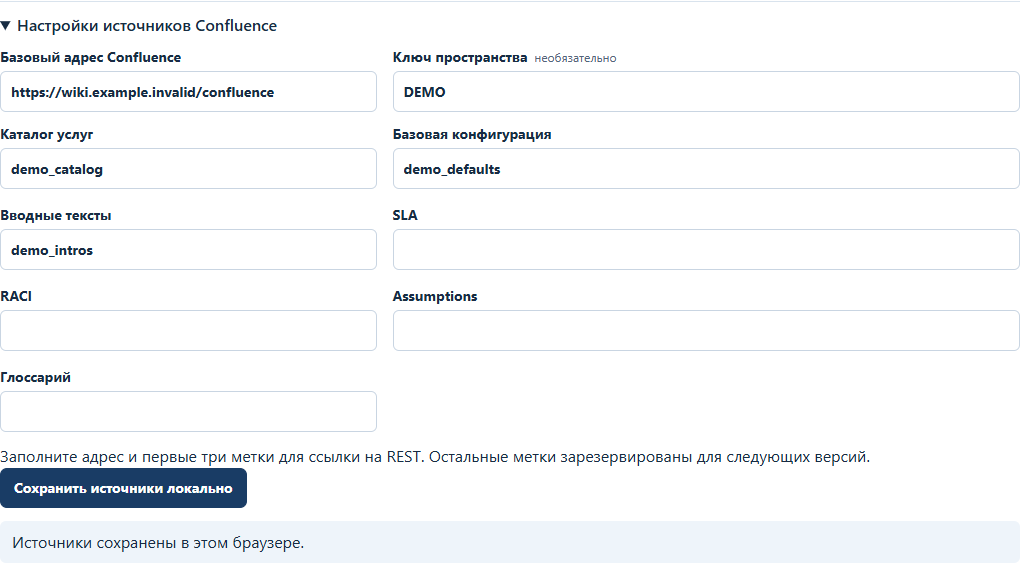
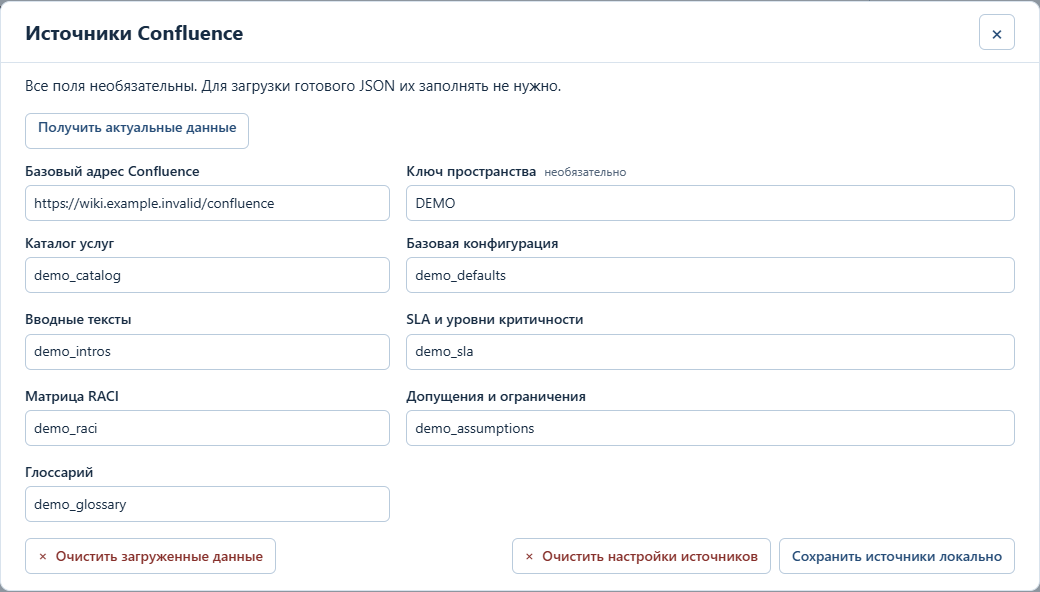
Prepare SSB 1.3.0 with refreshed user guide and verified upgrade tests

diff --git a/docs/USER_GUIDE.md b/docs/USER_GUIDE.md
@@ -1,112 +1,136 @@
 # Руководство пользователя Support Services Builder
 
-**Версия 1.2.2 · 14 ноября 2026 г.**
+**Версия 1.3.0 · 18 ноября 2026 г.**
 
 ## 1. Для чего нужен SSB
 
-Support Services Builder помогает собрать предложение по техническому сопровождению. Вы выбираете вариант поддержки, настраиваете состав услуг и выгружаете предложение в Excel или Word. Каталог и настройки обрабатываются в вашем браузере.
+Support Services Builder помогает подготовить предложение по техническому сопровождению. Загрузите каталог из Confluence, выберите вариант поддержки, настройте услуги и скачайте Excel или Word. Данные обрабатываются локально в браузере. SSB не изменяет страницы Confluence.
 
-## 2. Установка
+В приложении хранится одно текущее предложение. Его черновик сохраняется автоматически. Для повторного использования своей конфигурации есть **Мой шаблон**. Цвета Word и Excel настраиваются отдельно в **Палитре документа**.
 
-Откройте HTTPS-ссылку на приложение, которую предоставил владелец SSB. Если в приложении видна кнопка **Установить приложение**, нажмите её и подтвердите установку. Установленный SSB открывается отдельным окном. На Windows его можно найти по названию **Support Services Builder** через поиск в меню «Пуск», если браузер зарегистрировал приложение в системе.
+## 2. Установка и запуск
 
-![Кнопка «Установить приложение» в SSB, демонстрационный экран](assets/guide-install.png)
+Откройте [ssb.melgaf.com](https://ssb.melgaf.com/) в обычном профиле Chrome или Edge. Можно работать во вкладке или установить SSB отдельным приложением.
 
-**В Google Chrome**
+Если появилась кнопка **Установить приложение**, нажмите её и подтвердите установку. Также можно воспользоваться значком установки рядом с адресом или командой установки в меню браузера. Название и расположение команды зависят от версии браузера: [справка Chrome](https://support.google.com/chrome/answer/9658361?hl=ru), [справка Edge](https://support.microsoft.com/en-us/edge/install-manage-or-uninstall-apps-in-microsoft-edge).
 
-1. Откройте страницу SSB в обычном профиле Chrome.
-2. Нажмите значок установки справа в адресной строке. Также можно открыть меню **⋮ → Трансляция, сохранение и отправка → Установить страницу как приложение**.
-3. Подтвердите установку и откройте SSB из списка приложений. [Установка веб-приложений в Chrome](https://support.google.com/chrome/answer/9658361?hl=ru)
+![Главный экран SSB 1.3.0 в браузере до загрузки каталога](assets/guide-install.png)
 
-**В Microsoft Edge**
+Используйте один и тот же браузер и профиль. Установки в разных браузерах и профилях имеют отдельные данные и могут создавать похожие ярлыки. После установки откройте приложение и закрепите его на панели задач или в меню «Пуск», если браузер предлагает эти действия.
 
-1. Откройте страницу SSB в обычном профиле Edge.
-2. Нажмите значок установки в адресной строке или откройте **… → Другие инструменты → Приложения → Установить этот сайт как приложение**.
-3. Подтвердите установку. В параметрах после установки можно выбрать, где закрепить приложение. [Установка веб-приложений в Edge](https://support.microsoft.com/en-us/edge/install-manage-or-uninstall-apps-in-microsoft-edge)
+После первого открытия в сети SSB можно использовать без сети: импортировать сохранённый JSON и формировать документы. Для новой выгрузки из Confluence и обновления приложения нужна сеть.
 
-После первого открытия в сети проверьте, что SSB снова запускается без сети. Для резервной работы распакуйте автономный ZIP и откройте `index.html` из распакованной папки. Для обеих сборок достаточно браузера.
+Для резервной автономной работы распакуйте ZIP целиком и откройте `index.html` в Chrome или Edge. Дополнительные программы и локальный сервер не нужны. Хранилище автономной версии зависит от профиля и пути файла: перенос папки или открытие в другом браузере не переносит черновик и шаблон.
 
-## 3. Первый запуск
+## 3. Первый запуск и загрузка данных
 
-1. Нажмите **Загрузить JSON** и выберите готовый файл, скачанный из Confluence. Для пробного запуска можно выбрать `examples/demo-confluence.json` из автономного ZIP.
-2. Сверьте количество услуг в строке состояния под заголовком **Настройки предложения**. Дополнительные доступные разделы показаны в **Составе документа**. Кнопка **Источники Confluence** открывает настройки и сообщения импорта.
+1. Войдите в Confluence обычным способом и скачайте готовый JSON с каталогом и нужными разделами.
+2. В SSB нажмите **Загрузить JSON**. Если выгрузка состоит из нескольких файлов, выберите их вместе или добавьте по очереди.
+3. Под заголовком **Настройки предложения** сверьте количество загруженных услуг. В **Составе документа** проверьте доступные разделы.
+4. Настройте предложение и скачайте документы. Для знакомства с интерфейсом можно использовать `examples/demo-confluence.json` из автономного ZIP: это учебный каталог, без рабочих данных.
 
-Настройки источников для готового файла необязательны. Чтобы добавить ссылку **Получить актуальные данные**, откройте **Источники Confluence**, укажите базовый адрес и метки нужных страниц, затем сохраните настройки. Все поля видны сразу. Ключ пространства можно указать, когда все нужные страницы находятся в одном пространстве. Окно закрывается кнопкой × и клавишей Escape. Введённые значения сохраняются при закрытии окна. Для хранения между запусками нажмите **Сохранить источники локально**. Браузер хранит настройки и черновик в текущем профиле и по адресу приложения.
+Предварительно заполнять настройки источников не нужно. Источники определяются по содержимому готового файла. Отсутствующий или пустой необязательный раздел недоступен для включения; это не ошибка. Матрица RACI пока не поддерживается. Если заполненные данные некорректны или подходят несколько страниц, откройте **Источники Confluence** и прочитайте сообщения импорта.
 
-## 4. Обновление каталога
+**Источники Confluence** также позволяет необязательно указать адрес Confluence, ключ пространства и метки страниц. Нажмите **Сохранить источники локально**, чтобы сохранить поля между запусками. При заполненных настройках ссылка **Получить актуальные данные** открывает ответ Confluence в новой вкладке; там требуется ваша обычная авторизация. Все поля можно оставить пустыми. Окно закрывается кнопкой × или Escape; закрытие само по себе не сохраняет изменённые поля между запусками.
 
-1. Войдите в рабочий Confluence и скачайте актуальную выгрузку. Если в SSB настроена ссылка **Получить актуальные данные**, можно открыть через неё ответ REST и сохранить его как `.json`.
-2. Если в ответе есть `_links.next`, сохраните следующие страницы отдельными файлами, пока ссылка на продолжение не исчезнет.
-3. Нажмите **Загрузить JSON**. Выберите все файлы или добавляйте их по одному. Если SSB сообщает о недостающих страницах, загрузите продолжение.
-4. Сверьте количество услуг в строке состояния и доступность разделов в **Составе документа**. При предупреждении или ошибке откройте **Источники Confluence**. Если источник неоднозначен, сверьте ID страниц в сообщении и оставьте в выгрузке нужную страницу или уточните выбор меткой.
+![Окно источников Confluence, только учебные настройки](assets/guide-sources.png)
 
-Пока выгрузка неполная, рабочий каталог остаётся доступен. Если вы начали получать новую выгрузку, кнопка **Начать новую выгрузку** в окне **Источники Confluence** очищает только ожидающие страницы. При неудачном повторном импорте строка состояния показывает проблему последней загрузки и количество сохранённых ранее услуг. Подробности доступны в окне источников.
+## 4. Обновление и очистка данных Confluence
 
-**Очистить загруженные данные** слева внизу окна **Источники Confluence** удаляет каталог, дополнительные источники и текущую конфигурацию из приложения и его черновика. После подтверждения дождитесь сообщения **Данные Confluence очищены**. Окно источников остаётся открытым. Личный шаблон, активная и собственная палитра и настройки источников сохраняются. Для продолжения закройте окно источников и загрузите JSON заново. После загрузки можно явно выбрать **Мой шаблон**.
+Для обновления каталога скачайте свежий JSON и снова нажмите **Загрузить JSON**. Если ответ Confluence содержит `_links.next`, сохраните и загрузите продолжение до последней страницы. Пока выгрузка неполная, прежний каталог остаётся доступен. **Начать новую выгрузку** в окне источников очищает только ожидающие страницы после подтверждения.
 
-**Очистить настройки источников** в окне источников удаляет только сохранённые адрес, пространство и метки, а также очищает поля формы. Каталог и текущее предложение сохраняются. Обе очистки требуют подтверждения, отмена и Escape сохраняют данные. Кнопка **Сохранить источники локально** сохраняет поля без предварительного подтверждения.
+После импорта проверьте статус и количество услуг. Если возникла ошибка, ранее загруженные данные не следует считать обновлёнными. Подробности доступны через **Источники Confluence**. При неоднозначном источнике оставьте нужную страницу в файле или уточните сопоставление в настройках источников.
 
-## 5. Создание предложения
+Внизу окна источников находятся две независимые очистки:
 
-1. В блоке **Основа предложения** выберите **Стандарт Confluence** или сохранённый **Мой шаблон**. Чтобы заново применить активную основу, нажмите на её выбранный вариант ещё раз.
-2. Выберите **Standard — Стандартная поддержка 24×7**, **Extended — Расширенная поддержка 24×7** или **Managed Service — Полная поддержка 24×7**. В сравнении выбранный вариант помечен как **Предложение**.
-3. В таблице включайте услуги для каждого пакета. Для включённой услуги укажите параметр, если он нужен, например количество часов.
-4. Снимите отметку **Включить в документ**, чтобы исключить услугу из обоих документов целиком.
-5. Откройте **Описание и условия**, чтобы сверить карточку и основную услугу. Модификация имеет собственный ID и настраивается отдельно.
+- **Очистить загруженные данные** слева удаляет каталог, дополнительные данные и связанную конфигурацию текущего предложения, в том числе из черновика. Личный шаблон, активная и собственная палитра и настройки источников сохраняются. После подтверждения дождитесь **Данные Confluence очищены**. Окно останется открытым. Закройте его и загрузите JSON заново; затем можно явно выбрать **Мой шаблон**.
+- **Очистить настройки источников** справа удаляет только сохранённые адрес, пространство и метки и освобождает поля. Каталог и текущее предложение остаются. Дождитесь **Настройки источников очищены**. Готовый JSON по-прежнему можно загрузить без заполнения полей.
 
-Таблица занимает до 78% высоты окна и подстраивается при изменении его размера. Каталог прокручивается внутри таблицы, заголовки остаются видимыми. На узком экране доступна горизонтальная прокрутка.
+Обе операции требуют подтверждения. **Отмена**, × и Escape ничего не удаляют. Если нечего очищать, кнопка неактивна. После успешной очистки каталога он не вернётся при перезапуске; для восстановления нужен исходный JSON. Сохраните этот файл на компьютере. При ошибке хранения SSB не сообщает об успешной очистке.
 
-## 6. Состав документа
+## 5. Настройка предложения
 
-В блоке **Состав документа** отметьте нужные разделы. Для Word и Excel используется один выбор. При применении **Стандарта Confluence** включаются все реализованные и доступные разделы, матрица SLA показывает выбранный пакет. **Мой шаблон** восстанавливает свой сохранённый состав. Уже открытый черновик сохраняет индивидуальный выбор разделов.
+1. В блоке **Основа предложения** выберите **Стандарт Confluence** или доступный **Мой шаблон**. При замене индивидуальных правок появится подтверждение. Для повторного применения активной основы нажмите на неё ещё раз.
+2. Выберите **Standard — Стандартная поддержка 24×7**, **Extended — Расширенная поддержка 24×7** или **Managed Service — Полная поддержка 24×7**. В таблице выбранная колонка выделена и помечена **Предложение**.
+3. В колонках пакетов включайте услуги и вводите параметры, например «12 часов». Снятая отметка исключает услугу только из соответствующего пакета; для включённой услуги можно оставить параметр пустым, если уточнение не требуется.
+4. В колонке **Включить в документ** снимите отметку у услуги, которую нужно полностью исключить из обоих документов. Состав трёх пакетов при этом сохраняется.
+5. Нажмите **Описание и условия**, чтобы прочитать полный текст услуги. Модификации имеют собственные ID и настраиваются отдельно.
 
-Вводный текст берётся из Confluence для выбранного варианта поддержки. Отсутствующий или пустой раздел недоступен, рядом указана причина. Если заполненная таблица не прошла проверку, откройте список сообщений импорта.
+![Сравнение вариантов и личный шаблон, учебный каталог](assets/guide-proposal.png)
 
-Для **Матрицы SLA** выберите состав. **Только выбранный уровень поддержки** показывает таблицу пакета предложения. Для **Всех уровней с выделением выбранного** доступны **Отдельные таблицы по уровням поддержки** и **Одна сравнительная таблица**. В таблице отдельного пакета пять временных показателей идут строками, а уровни критичности 10, 20, 30 и 80 — столбцами. В сравнительной таблице каждый пакет занимает свой столбец. В зависимости от представления выделяется таблица пакета предложения или его столбец. **Уровни критичности** можно включить отдельно. В Word они выводятся в таблице. **Матрица RACI** пока недоступна.
+Каталог отсортирован по ID: например, TS-2 идёт перед TS-10, модификации — сразу после основного номера. Рабочая область таблицы занимает до 78% высоты окна и меняется вместе с окном. Заголовки остаются видимыми при внутренней прокрутке. На узком экране прокручивайте таблицу горизонтально.
 
-## 7. Скачивание документов
+## 6. Состав документа и SLA
 
-Кнопка **Палитра документа** в разделе **Сравнение вариантов** открывает предпросмотр оформления Word и Excel. В режиме **Базовая** используются корпоративные синий и зелёный с белым текстом. В режиме **Своя** выберите цвета образцами или введите HEX-коды. Для каждого заголовка можно оставить белый текст, включить **Авто** или указать свой цвет. Если контраст низкий, SSB покажет предупреждение рядом с предпросмотром.
+В **Составе документа** отметьте нужные разделы: **Вводный текст**, **Матрица SLA**, **Уровни критичности**, **Допущения и ограничения**, **Глоссарий**. Для Word и Excel используется один выбор. Недоступный источник нельзя включить; причина указана рядом.
 
-Активный вариант и последние корректные настройки собственной палитры сохраняются автоматически в этом браузере и в черновике, без отдельной кнопки. Базовая палитра не редактируется. Переключение на **Базовая** сохраняет собственные цвета; при возврате на **Своя** они восстанавливаются, включая режимы и HEX цветов текста. Закрытие окна, повторный импорт, выбор основы и сохранение личного шаблона не сбрасывают палитру. Незавершённый HEX не заменяет последнее корректное значение. При ошибке сохранения SSB показывает предупреждение; до её устранения не рассчитывайте на сохранение между запусками.
+**Стандарт Confluence** включает все доступные реализованные разделы и выбирает SLA только выбранного пакета. **Мой шаблон** восстанавливает собственный сохранённый состав. Уже открытый черновик сохраняет ваш индивидуальный выбор.
 
-Word и Excel используют название **Предложение по техническому сопровождению**. В приложении хранится одна текущая конфигурация предложения.
+Вводный текст берётся из Confluence для выбранного пакета и размещается перед сравнением вариантов. Редактировать его локально в SSB нельзя.
 
-- **Скачать Excel** создаёт книгу с листами «Описание услуг» и «Предложение». На втором листе ID и название ведут к описанию на первом листе. Вводный текст размещается на листе «Предложение». Для других включённых разделов создаются отдельные листы.
-- **Скачать Word** создаёт документ со сравнением вариантов и описаниями и условиями по включённым услугам. Включённый вводный текст размещается перед сравнением. Остальные отмеченные разделы следуют после описаний.
+Для матрицы SLA доступны:
 
-Найдите файлы в загрузках браузера. Перед отправкой клиенту проверьте выбранный пакет, состав, параметры и вводный текст.
+- **Только выбранный уровень поддержки** — одна таблица выбранного пакета. Пять временных показателей расположены строками, уровни критичности 10, 20, 30 и 80 — столбцами.
+- **Все уровни с выделением выбранного** — дополнительно выберите **Отдельные таблицы по уровням поддержки** или **Одна сравнительная таблица**. В первом случае следуют Standard, Extended и Managed Service, выбранная таблица выделена; в Excel они находятся на одном листе. Во втором случае пакеты занимают колонки одной таблицы, выбранная колонка выделена и помечена **Предложение**.
 
-## 8. Мой шаблон и черновик
+Значения и формулировки берутся из Confluence. **Уровни критичности** можно включить отдельно; в Word это таблица. **Матрица RACI** остаётся недоступной.
 
-- **Стандарт Confluence** восстанавливает состав и параметры услуг из загруженного стандарта, выбирает Standard, включает все доступные реализованные разделы и режим SLA **Только выбранный уровень поддержки**.
-- **Мой шаблон** восстанавливает сохранённые пакет, услуги, параметры, признаки включения в документ, состав разделов и представление SLA.
-- **Сохранить как мой шаблон** сохраняет текущую конфигурацию в браузере. Первое сохранение выполняется сразу. Обновление существующего шаблона требует подтверждения замены.
+## 7. Палитра и скачивание документов
 
-Индивидуальные изменения текущего предложения автоматически сохраняются в черновике. Чтобы заменить их настройками основы, подтвердите применение в диалоге. Сохранённый шаблон изменяется только при явном сохранении. Палитра документа остаётся независимой. После обновления каталога настройки сопоставляются по ID услуг, новые услуги получают значения актуального стандарта. Отсутствующие дополнительные разделы недоступны для экспорта.
+Откройте **Палитра документа** в разделе **Сравнение вариантов**.
 
-Автосохранение работает без сообщений после каждой правки. При следующем открытии приложение вернёт фактическое состояние текущего предложения. Ошибки сохранения остаются видимыми до устранения. Старые настройки менеджера доступны как личный шаблон с начальными значениями пакета и состава документа. Старые черновики сохраняют свои настройки, прежние клиент и название игнорируются при экспорте.
+- **Базовая** использует фиксированные синий и зелёный с белым текстом; эти настройки не редактируются.
+- **Своя** позволяет выбрать два основных цвета образцами или ввести HEX, например `#234C5E`. Для каждого заголовка есть **По умолчанию** с белым текстом, **Авто** с автоматическим выбором контрастного текста и **Свой** с отдельным цветом текста.
 
-Шаблон и черновик хранятся в текущем профиле браузера и по адресу приложения. Очистка данных сайта удаляет их. Перед переносом сохраните нужные документы.
+Предпросмотр меняется сразу. Предупреждение о низком контрасте помогает проверить читаемость. Для подбора цветов можно открыть Get Color или Adobe Color по ссылкам внизу окна.
+
+![Палитра документов с учебными цветами и предпросмотром](assets/guide-palette.png)
+
+Корректные изменения сохраняются автоматически, без кнопки сохранения. Переключение на базовую палитру сохраняет собственные цвета и настройки текста; при возврате на **Своя** они восстанавливаются. Закрытие окна, импорт каталога, выбор основы и сохранение шаблона не сбрасывают палитру. Неполный или неверный HEX не заменяет последнее корректное значение. При ошибке хранения не рассчитывайте на сохранение после закрытия приложения.
+
+Документы используют название **Предложение по техническому сопровождению**.
+
+- **Скачать Excel** создаёт листы **Описание услуг** и **Предложение**. На первом — полный каталог с отдельными полями описания и условий. На втором — сравнительная таблица трёх пакетов без колонки описания. ID и название ведут к нужной строке первого листа. Дополнительные включённые разделы получают отдельные листы.
+- **Скачать Word** создаёт сравнительную таблицу трёх пакетов и текстовые описания включённых в документ услуг. Названия услуг идут отдельными заголовками без ID, под ними — описания и заполненные условия. Дополнительные разделы следуют после описаний.
+
+Найдите файлы в загрузках браузера. Перед передачей проверьте выбранный пакет, включённые услуги, параметры, разделы и читаемость цветов. Содержимое исходного JSON от выбора палитры не меняется.
+
+## 8. Мой шаблон, черновик и сохранность настроек
+
+**Стандарт Confluence** применяет последнюю загруженную базовую конфигурацию: выбирает Standard, состав и параметры услуг из стандарта, все доступные разделы и SLA выбранного уровня.
+
+**Сохранить как мой шаблон** сохраняет текущий пакет, настройки всех трёх пакетов, индивидуальные параметры, включение услуг в документ, состав разделов и представление SLA. Первое сохранение выполняется сразу, замена существующего шаблона требует подтверждения. Шаблон не содержит палитру и не изменяет Confluence.
+
+**Мой шаблон** применяет сохранённую конфигурацию к загруженному каталогу. Новые услуги получают значения актуального стандарта, настройки существующих сопоставляются по ID. При наличии индивидуальных изменений SSB предлагает подтвердить их замену; отмена сохраняет текущую работу. Шаблон изменяется только при явном сохранении, а текущий черновик — автоматически после правок.
+
+При повторном открытии в том же браузере и профиле SSB восстанавливает последнее сохранённое предложение и каталог. Сообщения об успешном автосохранении не появляются после каждой правки. Ошибки хранения остаются видимыми. Не закрывайте приложение в расчёте на сохранение, пока ошибка не устранена; скачайте нужные документы.
+
+После обновления с 1.2.2 прежние локальные настройки менеджера доступны через **Мой шаблон**. Старый черновик сохраняет выбранный пакет, услуги, параметры и состав документа. Прежние клиент и название больше не выводятся, используется стандартное название документа. Кнопок **Новое предложение**, **Скачать настройки** и **Загрузить настройки** в 1.3.0 нет.
+
+Шаблон, палитра и черновик привязаны к профилю браузера и адресу приложения. Они не синхронизируются между компьютерами. Очистка данных сайта в браузере удаляет эти данные. Перед сменой профиля или автономной папки сохраните JSON и необходимые документы; встроенного переноса шаблона в файл в 1.3.0 нет.
 
 ## 9. Обновления приложения
 
-Версия показана в шапке. В установленном приложении новая версия проверяется в фоне. Нажмите **Проверить обновления**, чтобы проверить вручную. Когда появится **Установить обновление**, завершите текущую операцию и подтвердите перезапуск. SSB сначала сохраняет предложение. После открытия новой версии проверьте надпись о восстановлении черновика и выбранный пакет.
+Версия показана в шапке. В рабочем PWA обновления проверяются в фоне и кнопкой **Проверить обновления**. Когда появится **Установить обновление**, завершите текущую операцию и подтвердите перезапуск. SSB сначала сохраняет предложение; при проблеме хранения обновление откладывается.
 
-Откройте **Что нового**, чтобы прочитать изменения текущей версии. Если браузер не подтвердил сохранение, приложение предложит отложить перезапуск.
+После обновления проверьте номер версии, восстановленный пакет, параметры, личный шаблон и палитру. Для перехода с 1.2.2 на 1.3.0 штатная переустановка не требуется: используйте прежний адрес и профиль. **Что нового** показывает изменения текущего выпуска. Руководство доступно через **Помощь**, в том числе офлайн после загрузки приложения.
 
-При переходе с 1.1.0 сохранённые настройки и черновик открываются в том же профиле браузера. Вводный текст формируется из Confluence для выбранного варианта поддержки. Текст, введённый в локальном редакторе 1.1.0, можно сохранить в документе Word или Excel перед обновлением.
+В локальной тестовой версии видны бейдж **ТЕСТОВАЯ** и суффикс `-dev`. Её данные отдельные. **Проверить обновления** показывает помеченную имитацию PWA; **Загрузить новую сборку**, когда доступна, получает последнюю локальную сборку. Эти действия не устанавливают рабочие обновления в тестовую версию.
 
 ## 10. Частые проблемы
 
-**JSON не загружается.** Проверьте расширение файла и его содержимое. Файл со страницей входа или HTML нужно пересохранить после входа в Confluence.
+**Вместо JSON скачалась страница входа.** Войдите в Confluence в обычном браузере и скачайте ответ заново. SSB не выполняет вход и не запрашивает пароль.
 
-**Каталог неполный.** Сохраните и загрузите остальные страницы из `_links.next`. Если ссылки уже нет, проверьте пространство, метки и права просмотра.
+**Каталог неполный.** Загрузите все страницы выгрузки из `_links.next`. Если продолжения нет, проверьте права просмотра и параметры выгрузки. Откройте сообщения в **Источники Confluence**.
 
-**Услуги не отображаются.** Откройте сообщения импорта и проверьте, что JSON содержит карточки с содержимым страниц и полями Page Properties. Сверьте число карточек с источником.
+**Дополнительный раздел недоступен.** Он отсутствует, пуст или содержит ошибку. Причина указана в составе документа; подробности ошибки — в окне источников. Исправьте источник и повторно загрузите JSON. RACI пока не поддерживается.
 
-**Документ не формируется.** Загрузите каталог и исправьте подсвеченные параметры. Проверьте папку загрузок и разрешение браузера на скачивание.
+**Документ не формируется.** Загрузите каталог, проверьте подсвеченные поля, разрешение на скачивание и папку загрузок. Данные после очистки каталога нужно импортировать повторно.
 
-**Шаблон или черновик не сохраняются.** Проверьте, что вы используете обычный профиль и браузер разрешает хранение данных сайта. Сохраните нужные документы. Если ошибка возникла после открытия второй вкладки, продолжайте в той вкладке, которая сохранила черновик первой.
+**Шаблон, черновик или палитра не сохраняются.** Используйте обычный профиль и разрешите хранение данных сайта. При конфликте двух вкладок продолжайте в той, которая сохранила черновик первой. Скачайте необходимые документы до закрытия приложения.
 
-**Обновление не устанавливается.** Проверьте сеть и статус сохранения черновика. Закончите импорт или экспорт, закройте лишние окна SSB и повторите проверку обновлений. При ошибке загрузки продолжайте в открытой версии.
+**После выбора базовой палитры пропали свои цвета.** Вернитесь на **Своя**. Базовая меняет только используемый вариант. Если приложение открыто в другом браузере, профиле или по другому адресу, прежние настройки там недоступны.
+
+**Ярлык открывает вкладку вместо отдельного окна.** Откройте рабочий адрес в том же браузере и профиле и выберите **Открыть в приложении**, если браузер предлагает эту команду. Проверьте, что ярлык относится к рабочему сайту, а не к старой локальной установке. Закрепите нужное окно. Не удаляйте данные сайта для исправления ярлыка.
+
+**Обновление не устанавливается.** Проверьте сеть и сообщения о сохранении. Закончите импорт или экспорт, закройте лишние окна SSB и повторите проверку. При ошибке загрузки продолжайте в открытой версии.

diff --git a/docs/SSB_1.3.0_RELEASE_REPORT.md b/docs/SSB_1.3.0_RELEASE_REPORT.md
@@ -1,0 +1,74 @@
+# Support Services Builder 1.3.0 — подготовка выпуска
+
+18 ноября 2026 г. Исходная рабочая версия — 1.2.2. Подготовлен функциональный выпуск 1.3.0; тестовая сборка — 1.3.0-dev.
+
+## Состав
+
+- Полный личный шаблон и выбор основы «Стандарт Confluence» / «Мой шаблон», подтверждение замены правок. Стандарт включает доступные разделы и SLA выбранного пакета.
+- Палитра Word и Excel с автоматическим сохранением, независимыми базовым вариантом и собственными настройками, миграцией прежних настроек и предпросмотром.
+- Компактный интерфейс, область таблицы до 78% высоты окна, короткие уведомления, настройки и диагностика в окне источников.
+- Независимая очистка каталога и настроек источников, подтверждения и сохранение личного шаблона и палитры.
+- Стандартное название документа; удалены клиент, произвольное название, «Новое предложение» и прежние действия с файлами настроек.
+- Полностью актуализированное существующее руководство и инструкции из архивов. Прежние исправления импорта 1.2.1–1.2.2 сохранены, но не объявлены новой функциональностью этого выпуска.
+
+Состав сверён с историей `main..dev`, журналом UNRELEASED и выполненными итерациями. Незавершённых изменений в состав выпуска не добавлено. Отдельный незакоммиченный аналитический отчёт не включён в поставку.
+
+## Проверки перед отправкой
+
+| Проверка | Результат |
+|---|---|
+| Исходная версия | Рабочий сайт по HTTPS показывал 1.2.2; все 11 файлов совпали с проверенным артефактом Pages 1.2.2; GitHub Release и main соответствовали `a9dd88a` |
+| Зависимости | Установка по неизменённому lock-файлу, pnpm 11.25.0; аудит не выявил известных уязвимостей |
+| Автоматические тесты | 39 тестов, включая все пакеты, все представления SLA, форматирование заголовков и содержимое Word/Excel, миграцию и ошибки хранения |
+| Сборки | Production 1.3.0 и dev 1.3.0-dev собраны; архивы сформированы штатным упаковщиком с проверкой состава и CRC |
+| Браузеры | Chrome 157 и Edge 157: источники, импорт без настроек, пустые/необязательные источники, повторный импорт, шаблоны, палитра, очистки, сообщения, таблица и экспорт |
+| Обновление PWA | На отдельном локальном HTTPS проверен переход именно с опубликованных файлов 1.2.2 на 1.3.0, сохранность черновика, параметров, выбранного пакета и локальных настроек |
+| Установка и повторный запуск | Отдельные тестовые установки Chrome и Edge сохранились после обновления и перезапуска браузеров; повторный запуск проверен в отдельном окне |
+| Идентичность | Манифест и исходный Service Worker не менялись; прежние `id`, `start_url`, `scope`, `display` и URL манифеста сохранены |
+| Изоляция dev | Нет рабочего Service Worker; настройки и черновики раздельны; имитация обновлений и элементы dev отсутствуют в production |
+| Безопасность | Проверена новая история Git с частным списком маркеров и шаблонами секретов; публичные исходники и сборки проверяются перед отправкой. JSON, профили, черновики, локальные настройки, ключ тестового HTTPS и служебные файлы GitHub остаются вне репозитория |
+
+Тесты работали только на синтетических данных. Проверки обновления не использовали рабочий сайт как экспериментальную среду.
+
+## Обязательное обновление руководства
+
+Обновлено именно существующее [руководство пользователя](USER_GUIDE.md), а не только CHANGELOG или Release Notes.
+
+| Раздел | Что обновлено и сверено |
+|---|---|
+| 1. Назначение | Одно текущее предложение, личный шаблон и независимая палитра |
+| 2. Установка и запуск | Рабочий адрес, условная доступность установки, один профиль, отдельные установки, офлайн и автономный ZIP; убраны хрупкие точные названия меню браузеров |
+| 3. Первый запуск | Загрузка JSON без настроек, статус, дополнительные источники и сообщения, окно источников и явное сохранение его полей |
+| 4. Данные Confluence | Полнота выгрузки, повторный импорт, обе независимые очистки, расположение кнопок, подтверждения и последствия |
+| 5. Предложение | Обе основы, точные названия пакетов, отдельные признаки включения, параметры, карточка, порядок и прокрутка таблицы |
+| 6. Состав и SLA | Все доступные разделы стандарта, индивидуальный черновик, три представления SLA, вводный текст из Confluence, недоступная RACI |
+| 7. Палитра и экспорт | Автосохранение и возврат собственных цветов, три режима текста, HEX, контраст, точное содержимое листов Excel и разделов Word |
+| 8. Шаблон и черновик | Полный состав шаблона, подтверждения, миграция с 1.2.2, удалённые действия, ограничения переноса и хранения |
+| 9. Обновления | Штатное обновление без переустановки, проверка версии и данных, «Помощь», «Что нового», отличие локальной тестовой среды |
+| 10. Проблемы | Ошибочный JSON, неполная выгрузка, недоступные разделы, хранение, палитра, устаревшие ярлыки и ошибки обновления |
+
+Три прежних скриншота заменены реальными экранами сборки 1.3.0, добавлен четвёртый экран палитры. Все данные на них учебные. Изображения просмотрены визуально. Установочная иллюстрация показывает реальный главный экран, без искусственно включённой кнопки установки.
+
+В Chrome и Edge проверены существующая кнопка «Помощь», версия руководства, все десять разделов, четыре встроенных изображения, локальные ссылки, возврат в приложение и повторное открытие офлайн. Дополнительно проверено существование локальных ссылок в README, руководстве, INSTALL и CONFLUENCE_IMPORT. Устаревшие инструкции о скачивании настроек удалены из инструкций архивов. Проверка руководства добавлена в действующие CI и release workflows; защита публикации не менялась.
+
+## Контролируемый выпуск
+
+Статус на момент подготовки: локальные проверки пройдены; отправка main, проверка CI, тег, черновик Release и запуск workflow выполняются следующими этапами. Этот отчёт не является подтверждением публикации.
+
+Обязательное ручное одобрение `public-release` сохранено и проверено. Автоматическое одобрение не выполняется. До одобрения владельцем production остаётся на 1.2.2.
+
+Предыдущий тег, Release и архивы 1.2.2 сохраняются. При необходимости откат оформляется отдельным контролируемым выпуском с новым номером и проверкой совместимости данных.
+
+## Проверка установленного SSB после публикации
+
+1. Откройте прежний установленный SSB в том же профиле браузера. Не удаляйте приложение и данные сайта.
+2. Нажмите «Проверить обновления». При появлении «Установить обновление» завершите работу и подтвердите перезапуск.
+3. Проверьте 1.3.0 в шапке и в «Что нового», восстановленный пакет, параметры и состав документа.
+4. Откройте «Мой шаблон» и палитру. Если ранее использовались собственные цвета, переключите базовая → своя и проверьте их восстановление.
+5. Проверьте «Помощь», скачайте учебные Word/Excel. Закройте приложение и запустите его прежним ярлыком.
+
+## Ограничения
+
+Перезагрузка Windows и ручное нажатие каждого ярлыка меню «Пуск» или панели задач не выполнялись. Проверены регистрация тестового PWA, неизменная идентичность, отдельное окно и повторный запуск после перезапуска браузера. Устаревшие ярлыки других профилей или локальных установок этим выпуском не переназначаются.
+
+Реальные корпоративные JSON и пользовательские профили не использовались. Сохранность подтверждена на синтетических старых черновиках, настройках менеджера и палитрах. Базовый зелёный с белым текстом сохраняет согласованные цвета и прежнее предупреждение о контрасте около 3:1.

diff --git a/docs/INSTALL.md b/docs/INSTALL.md
@@ -5,9 +5,9 @@
 1. Распакуйте ZIP целиком в обычную папку. Откройте `index.html` в Chrome или Edge.
 2. Чтобы попробовать интерфейс, нажмите **Загрузить JSON** и выберите `examples/demo-confluence.json`. Для рабочих данных используйте согласованную выгрузку из Confluence. Настройки источников для готового файла необязательны.
 3. Выберите вариант предложения и отредактируйте состав и параметры. При наличии вводного текста для выбранного пакета его можно включить в документ. Скачайте Excel или Word.
-4. Если настройки понадобятся снова, нажмите **Зафиксировать локально**, подтвердите действие и скачайте файл настроек. При недоступном хранилище приложение прямо сообщает, что настройки остались только в открытой вкладке.
+4. Для повторного использования конфигурации нажмите **Сохранить как мой шаблон**. Текущее предложение сохраняется в черновике автоматически. Палитра также сохраняется автоматически и не входит в шаблон. При ошибке хранения SSB показывает предупреждение.
 
-В режиме `file://` постоянство браузерного хранилища зависит от браузера и пути файла. Для переноса между компьютерами или папками используйте **Скачать настройки** и **Загрузить настройки**. Для автономного обновления распакуйте новый ZIP и загрузите ранее скачанные настройки.
+В автономном режиме постоянство хранилища зависит от браузера, профиля и пути файла. Шаблон и черновик не переносятся автоматически в другую папку, браузер или компьютер. Перед заменой автономной поставки сохраните необходимые Word и Excel и исходный JSON. В версии 1.3.0 отдельных кнопок переноса настроек нет. Для штатных обновлений без переустановки используйте PWA. Полное руководство откройте через **Помощь** или файлом `user-guide.html` в корне распакованной папки.
 
 ## Установка PWA
 
@@ -15,7 +15,7 @@
 2. Если появилась кнопка **Установить приложение**, нажмите её и подтвердите установку. В Chrome также можно воспользоваться кнопкой установки в адресной строке или меню. В Edge откройте меню **Приложения** и выберите установку сайта как приложения, если пункт доступен.
 3. После первого успешного открытия SSB кеширует файлы приложения. Проверьте офлайн-режим повторным открытием с отключённой сетью. Импорт сохранённого JSON и экспорт документов доступны офлайн. Для получения новой выгрузки потребуется доступ к Confluence.
 
-Настройки и черновик привязаны к профилю браузера и адресу размещения. При перезагрузке приложение восстанавливает последнее сохранённое предложение и обработанный каталог. В другом профиле или на другом адресе загрузите каталог и резервный файл настроек. [Документация Chrome по PWA](https://developer.chrome.com/docs/devtools/progressive-web-apps)
+Настройки и черновик привязаны к профилю браузера и адресу размещения. При перезагрузке приложение восстанавливает последнее сохранённое предложение и обработанный каталог. В другом профиле или на другом адресе потребуется загрузить каталог и настроить предложение заново. [Документация Chrome по PWA](https://developer.chrome.com/docs/devtools/progressive-web-apps)
 
 ### Ярлыки в Windows
 

diff --git a/CHANGELOG.md b/CHANGELOG.md
@@ -1,5 +1,26 @@
 # История изменений Support Services Builder
 
+## 1.3.0 — 2026-11-18
+
+### Добавлено
+
+- Личный шаблон предложения сохраняет выбранный пакет, состав и параметры услуг, включение в документ, дополнительные разделы и представление SLA. Перед заменой шаблона или индивидуальных изменений SSB запрашивает подтверждение.
+- Палитра Word и Excel: базовые или собственные цвета, настройка текста заголовков, предпросмотр и проверка контрастности. Корректные изменения сохраняются автоматически; переключение на базовую палитру сохраняет собственные цвета.
+- Независимая очистка загруженных данных Confluence и настроек источников с подтверждением. Личный шаблон и палитра сохраняются.
+
+### Изменено
+
+- Основа предложения выбирается между «Стандарт Confluence» и «Мой шаблон». Стандарт включает все доступные реализованные разделы и SLA выбранного пакета. Прежние черновики сохраняют свой состав документа.
+- Поля клиента и названия предложения, кнопка «Новое предложение» и прежние действия с файлами настроек убраны. Документы используют название «Предложение по техническому сопровождению».
+- Интерфейс стал компактнее: единые кнопки и отступы, рабочая область таблицы до 78% высоты окна, короткий статус Confluence. Настройки и сообщения импорта открываются через «Источники Confluence».
+- Автосохранение работает без повторяющихся уведомлений об успехе. В тестовой версии оставлены бейдж и номер с `-dev`, отдельная жёлтая плашка удалена.
+- Руководство пользователя полностью сверено с интерфейсом 1.3.0, обновлены инструкции и демонстрационные скриншоты.
+
+### Исправлено
+
+- При выборе базовой палитры собственные цвета и настройки текста сохраняются для последующего возврата. Старые палитры и настройки менеджера восстанавливаются без удаления исходных настроек.
+- Очистка каталога записывается в черновик и удаляет ожидающие страницы REST, чтобы прежние данные не восстанавливались при повторном открытии. Ошибка хранения не показывается как успешная очистка.
+
 ## 1.2.2 — 2026-11-14
 
 ### Добавлено

diff --git a/docs/RELEASING.md b/docs/RELEASING.md
@@ -1,8 +1,10 @@
 # Выпуск новой версии
 
+Версии следуют Semantic Versioning: `MAJOR.MINOR.PATCH`. MAJOR — несовместимое изменение публичных контрактов или форматов, требующее специального перехода; MINOR — совместимые возможности и существенные улучшения пользовательских сценариев; PATCH — исправления без новых возможностей. Номер в `package.json` задаёт рабочую версию, тестовая сборка получает тот же номер с `-dev`. Идентификатор и адрес установленного PWA от версии не зависят.
+
 1. Обновите номер в `package.json`. Используйте новый номер `X.Y.Z` для каждого выпуска, включая выпуск с откатом поведения.
 2. Добавьте первым разделом в `CHANGELOG.md` строку `## X.Y.Z — YYYY-MM-DD` и подразделы «Добавлено», «Изменено», «Исправлено». Укажите хотя бы одно конкретное изменение. Пустую категорию обозначьте тире. Для проверки выполните `pnpm check:release`.
-3. Выполните `pnpm install --frozen-lockfile`, `pnpm test`, `pnpm build` и проверку публичной поставки с частным списком. Отправьте коммит в основную ветку после review и дождитесь зелёного CI.
+3. Сверьте всё существующее руководство `docs/USER_GUIDE.md` с интерфейсом, обновите примеры и скриншоты. Проверьте «Помощь», изображения и ссылки в собранной версии. Выполните `pnpm install --frozen-lockfile`, `pnpm test`, `pnpm build` и проверку публичной поставки с частным списком. Отправьте коммит в основную ветку после review и дождитесь зелёного CI.
 4. Создайте тег `vX.Y.Z` на проверенном коммите и сохраните черновик стабильного GitHub Release с этим тегом.
 5. Вручную запустите **Publish an approved release** из основной ветки с этим тегом. Проверьте результат браузерных тестов и одобрите защищённые окружения. Релизный workflow сверит номер, аудит зависимостей, исходники и сборку, прогонит PWA на HTTPS, приложит архивы и опубликует описание изменений. Собирать ZIP вручную для GitHub не требуется.
 6. Проверьте страницы Releases и Pages. Убедитесь, что установленный экземпляр предлагает новую версию, после подтверждения восстанавливает предложение и показывает изменения нужного выпуска.

diff --git a/docs/CONFLUENCE_IMPORT.md b/docs/CONFLUENCE_IMPORT.md
@@ -29,7 +29,9 @@
 
 При отсутствии строки конфигурации услуга исключена из пакетов и включена в документ. Отсутствующий в каталоге ID и дублирующиеся строки помечаются в результатах импорта. При наличии ранее применимого стандарта он сохраняется до получения корректной базовой конфигурации. Каждая дополнительная таблица проверяется отдельно. Причина недоступности указана рядом с разделом и в результатах импорта. Пункт «Матрица RACI» зарезервирован. Существующий JSON-формат `schemaVersion: 1` загружает только карточки.
 
-После импорта **Применить стандарт Confluence** применяет последнюю корректную базовую конфигурацию. **Зафиксировать локально** сохраняет состав, параметры и видимость услуг. **Восстановить локальные настройки** применяет сохранённые настройки менеджера. Услуги, которых в них ещё нет, берут значения из Confluence. При различиях уведомление показывает активную конфигурацию и ID затронутых услуг. Состав документа и представление SLA сохраняются с черновиком предложения.
+После импорта в блоке **Основа предложения** выберите **Стандарт Confluence** или **Мой шаблон**. Стандарт применяет последнюю корректную базовую конфигурацию и включает доступные реализованные разделы. **Сохранить как мой шаблон** сохраняет выбранный пакет, состав, параметры, включение услуг в документ, дополнительные разделы и представление SLA. Перед заменой шаблона или текущих правок появляется подтверждение. Новые услуги получают значения актуального стандарта. Палитра сохраняется независимо.
+
+В окне **Источники Confluence** действие **Очистить загруженные данные** удаляет каталог и связанную конфигурацию из черновика. Действие **Очистить настройки источников** удаляет только сохранённые адрес, пространство и метки. Обе операции требуют подтверждения и сохраняют личный шаблон и палитру. Повторный импорт готового JSON работает без настроек источников.
 
 ## Учебный файл
 
